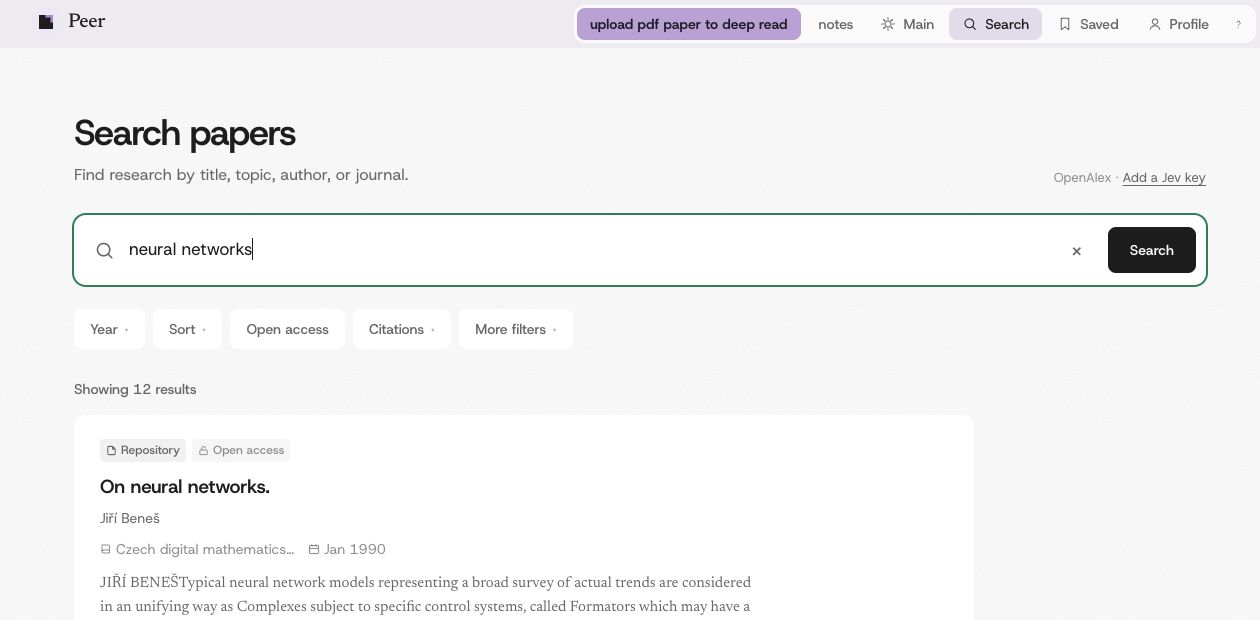
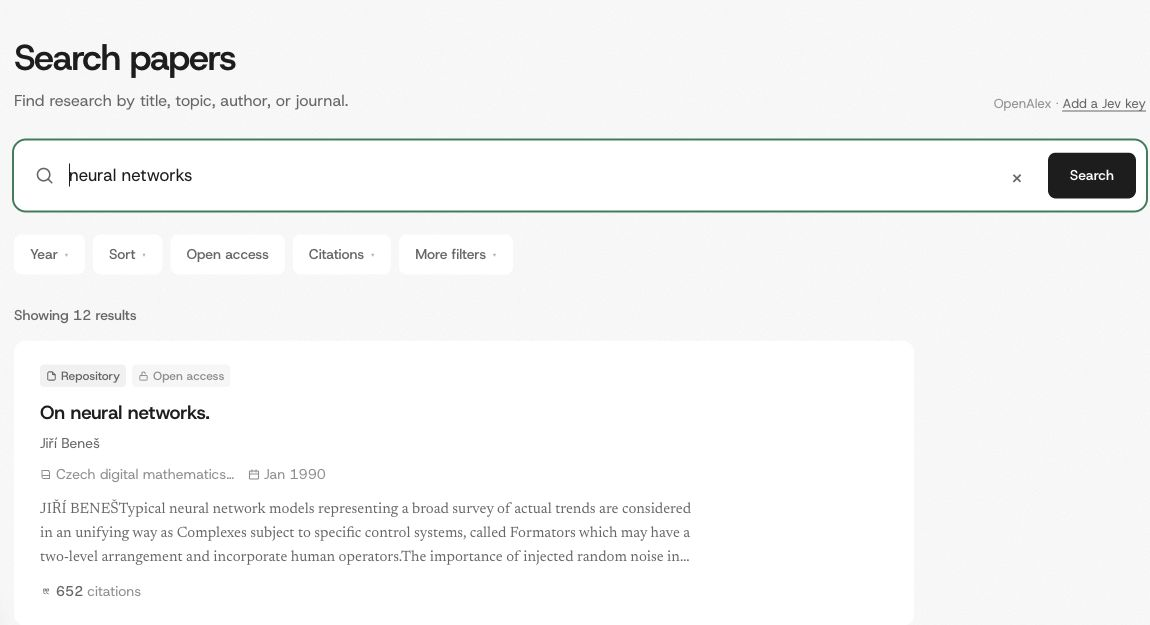
Polish bilingual README product screenshots

diff --git a/README.md b/README.md
@@ -12,17 +12,17 @@
   <a href="CONTRIBUTOR_GUIDE.md">Contributor guide</a>
 </p>
 
-Peer brings relevant papers together in a focused daily briefing, then gives you a place to read and keep notes. Tell it what you work on, and refine your interests as your research changes.
+Peer helps you discover, read, and remember research that matters to you. Start with your interests and let your briefing evolve with your work.
 
-## A briefing for your field
+## Start with what matters to you
 
-Follow the topics and research interests that matter to you. Peer brings papers from sources including OpenAlex, arXiv, PubMed, Semantic Scholar, and DBLP into one focused briefing.
+Choose your topics and research interests to shape a daily briefing. Peer brings together papers from OpenAlex, arXiv, PubMed, Semantic Scholar, DBLP, and other sources.
 
-![Peer briefing showing a grid of research paper cards](assets/screenshots/briefing.jpg)
+![Choose research topics during setup in Peer](assets/screenshots/topics.jpg)
 
 ## Read with context
 
-Open an available paper in Peer to navigate its sections and read its text, figures, tables, and equations together. Highlight passages and collect your thoughts in a dedicated notes workspace. When readable full text is unavailable, follow the link to the source.
+Navigate a paper by section and read its text, figures, tables, and equations in one place. Highlight passages and collect your thoughts in a dedicated notes workspace. When readable full text is unavailable, follow the link to the source.
 
 ![Peer reader showing a paper outline and typeset equations](assets/screenshots/reader.jpg)
 
@@ -30,7 +30,7 @@ Open an available paper in Peer to navigate its sections and read its text, figu
 
 ## Search beyond the briefing
 
-Look up papers by topic, title, author, or venue, and narrow results with filters.
+Search by topic, title, author, or venue, then narrow the results with filters.
 
 ![Peer search showing results for neural networks](assets/screenshots/search.jpg)
 

diff --git a/README.zh-CN.md b/README.zh-CN.md
@@ -12,17 +12,17 @@
   <a href="CONTRIBUTOR_GUIDE.md">开发者指南</a>
 </p>
 
-Peer 把与你相关的论文整理成每日简报，也提供阅读和记录的空间。告诉 Peer 你正在研究什么，随着研究推进随时调整兴趣。
+Peer 帮你发现、阅读和记录与你相关的研究。从感兴趣的主题开始，让每日简报随研究一起变化。
 
-## 为你的研究准备的简报
+## 从你关心的问题开始
 
-关注与你有关的主题和研究方向。Peer 从 OpenAlex、arXiv、PubMed、Semantic Scholar、DBLP 等来源汇集论文，整理成一份专注的简报。
+选择研究主题和兴趣，形成属于你的每日简报。Peer 汇集 OpenAlex、arXiv、PubMed、Semantic Scholar、DBLP 等来源的论文。
 
-![Peer 简报中的论文卡片](assets/screenshots/briefing.jpg)
+![在 Peer 的设置中选择研究主题](assets/screenshots/topics.jpg)
 
 ## 带着上下文阅读
 
-在 Peer 中打开可阅读的论文，按章节浏览正文、图片、表格和公式。标记段落，在独立的笔记空间整理想法；无法获取可读全文时，可以访问原始来源。
+按章节浏览论文正文、图片、表格和公式。标记段落，在独立的笔记空间整理想法；无法获取可读全文时，可以访问原始来源。
 
 ![Peer 阅读器中的论文目录和公式](assets/screenshots/reader.jpg)
 
@@ -30,7 +30,7 @@ Peer 把与你相关的论文整理成每日简报，也提供阅读和记录的
 
 ## 搜索简报之外的研究
 
-按主题、标题、作者或期刊查找论文，并用筛选条件缩小范围。
+按主题、标题、作者或期刊查找论文，再用筛选条件缩小范围。
 
 ![Peer 搜索神经网络论文的结果](assets/screenshots/search.jpg)
 
